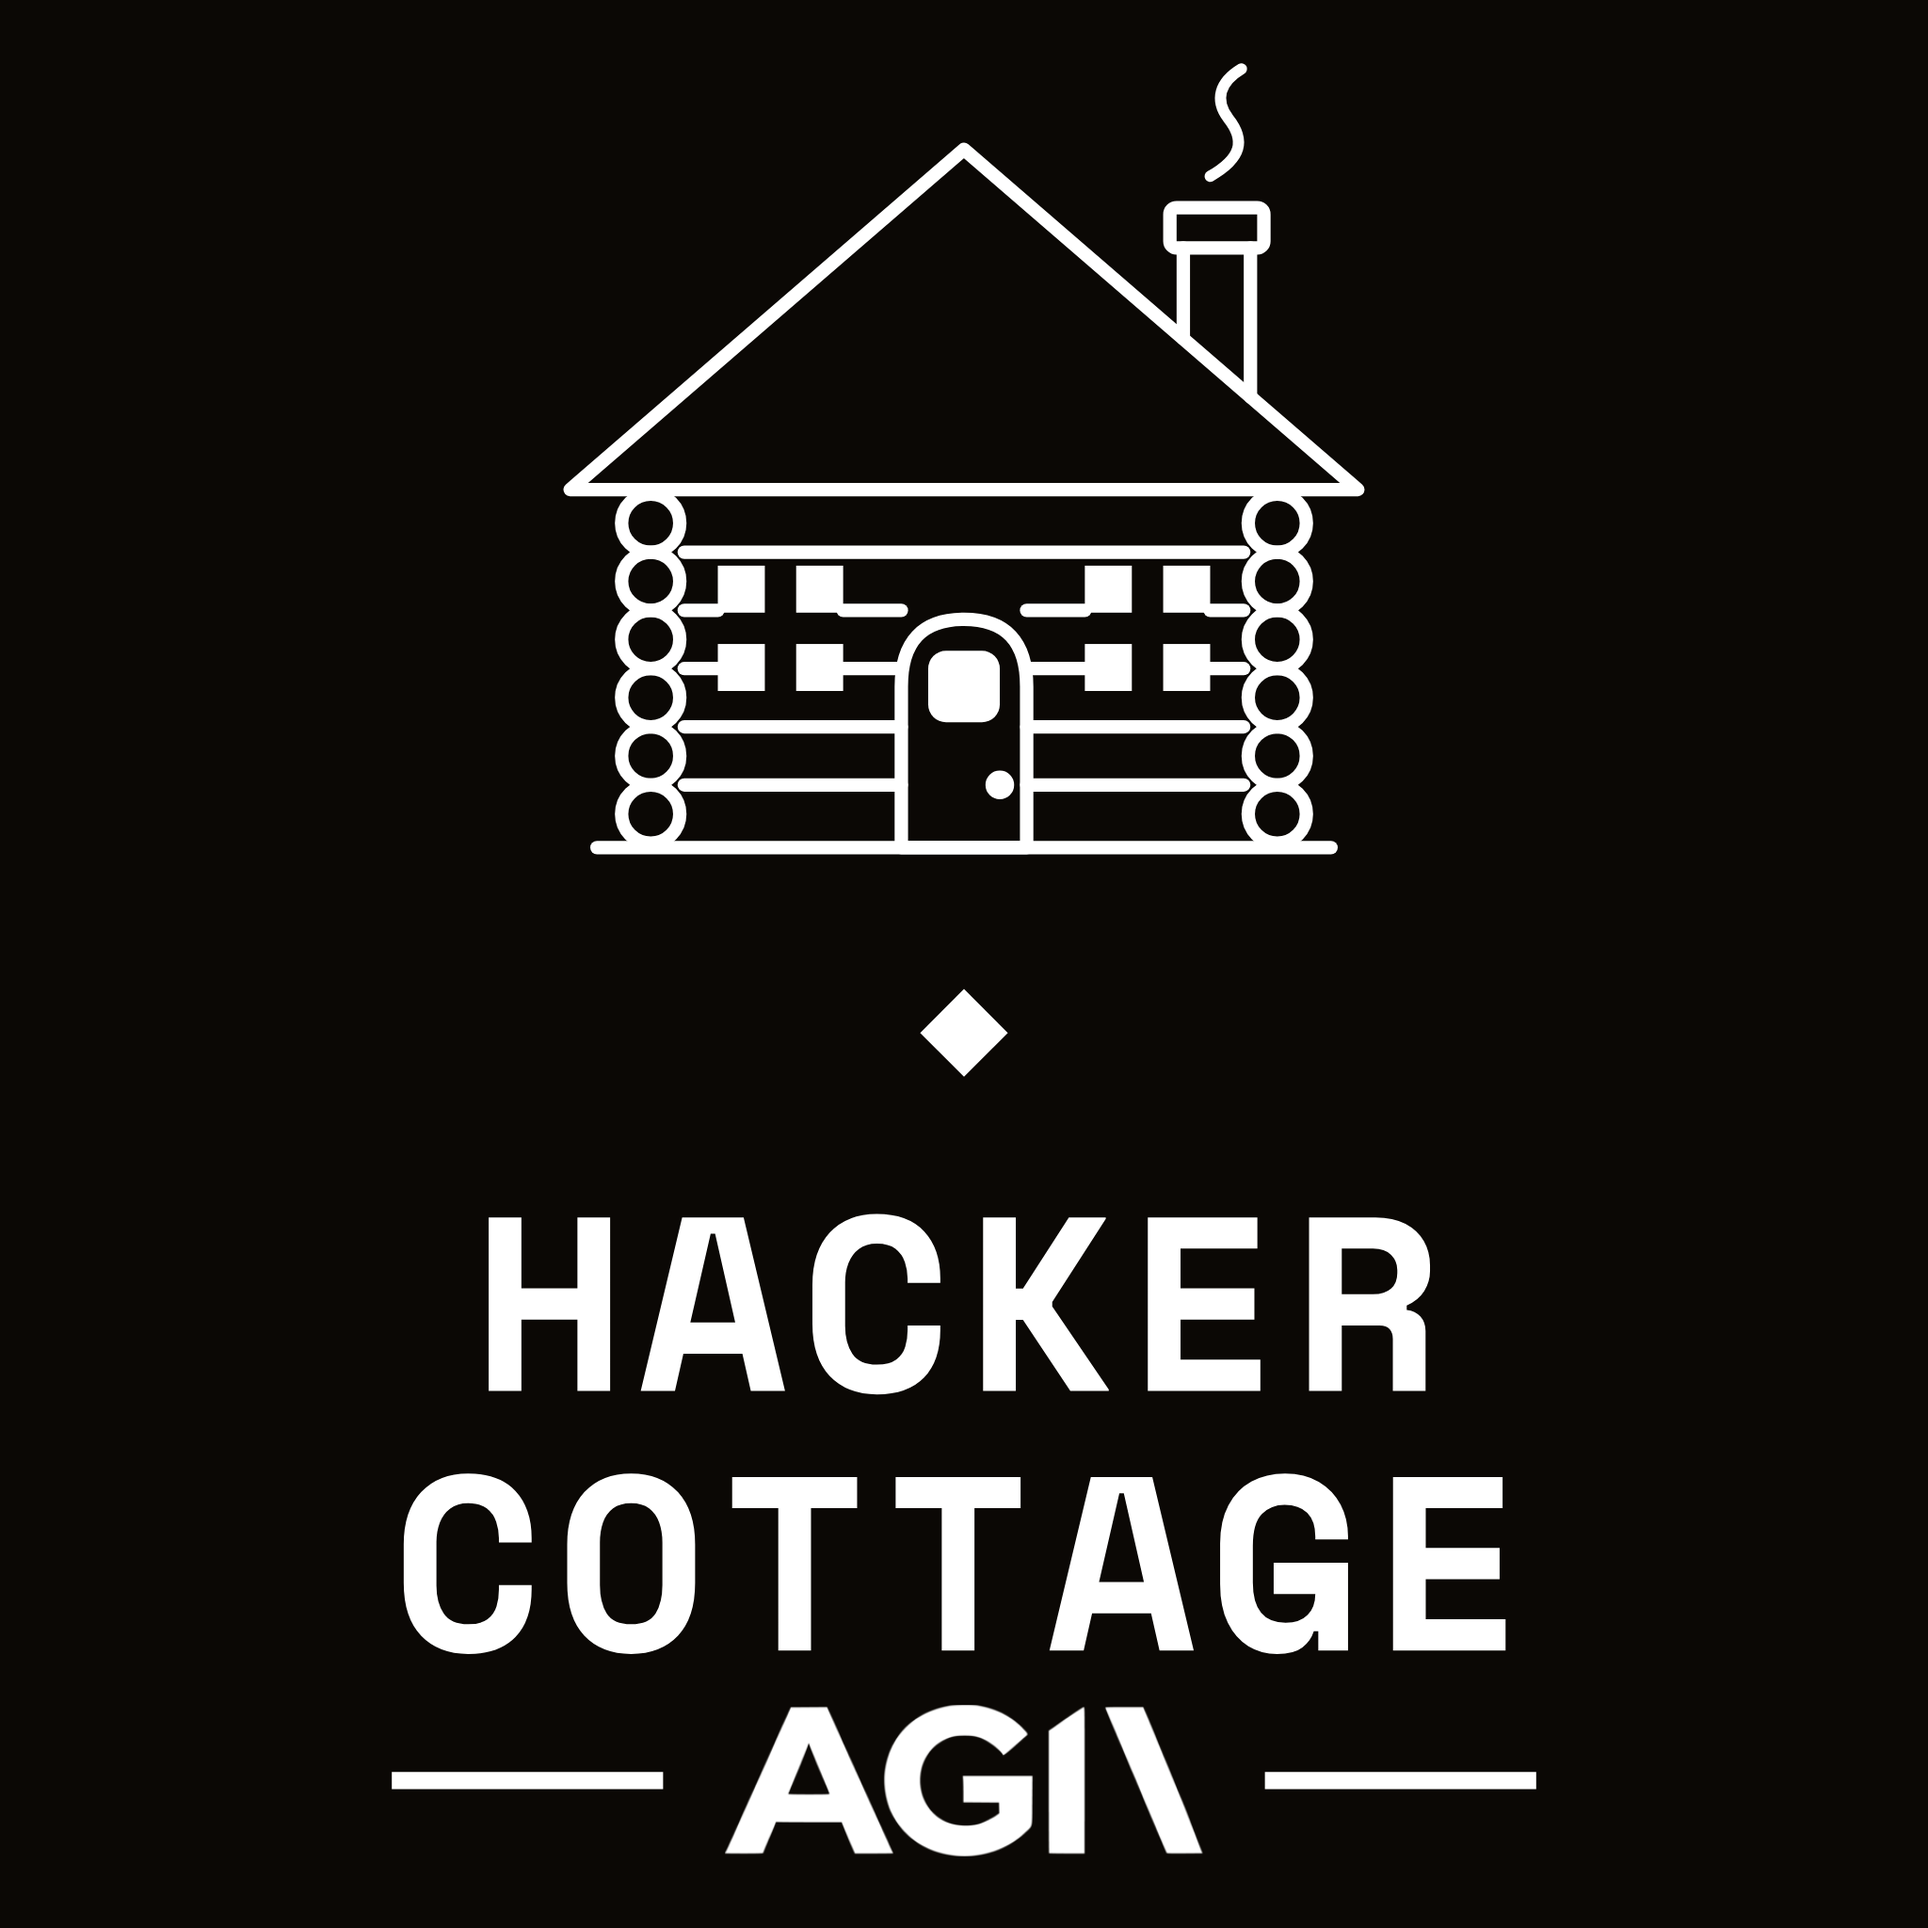
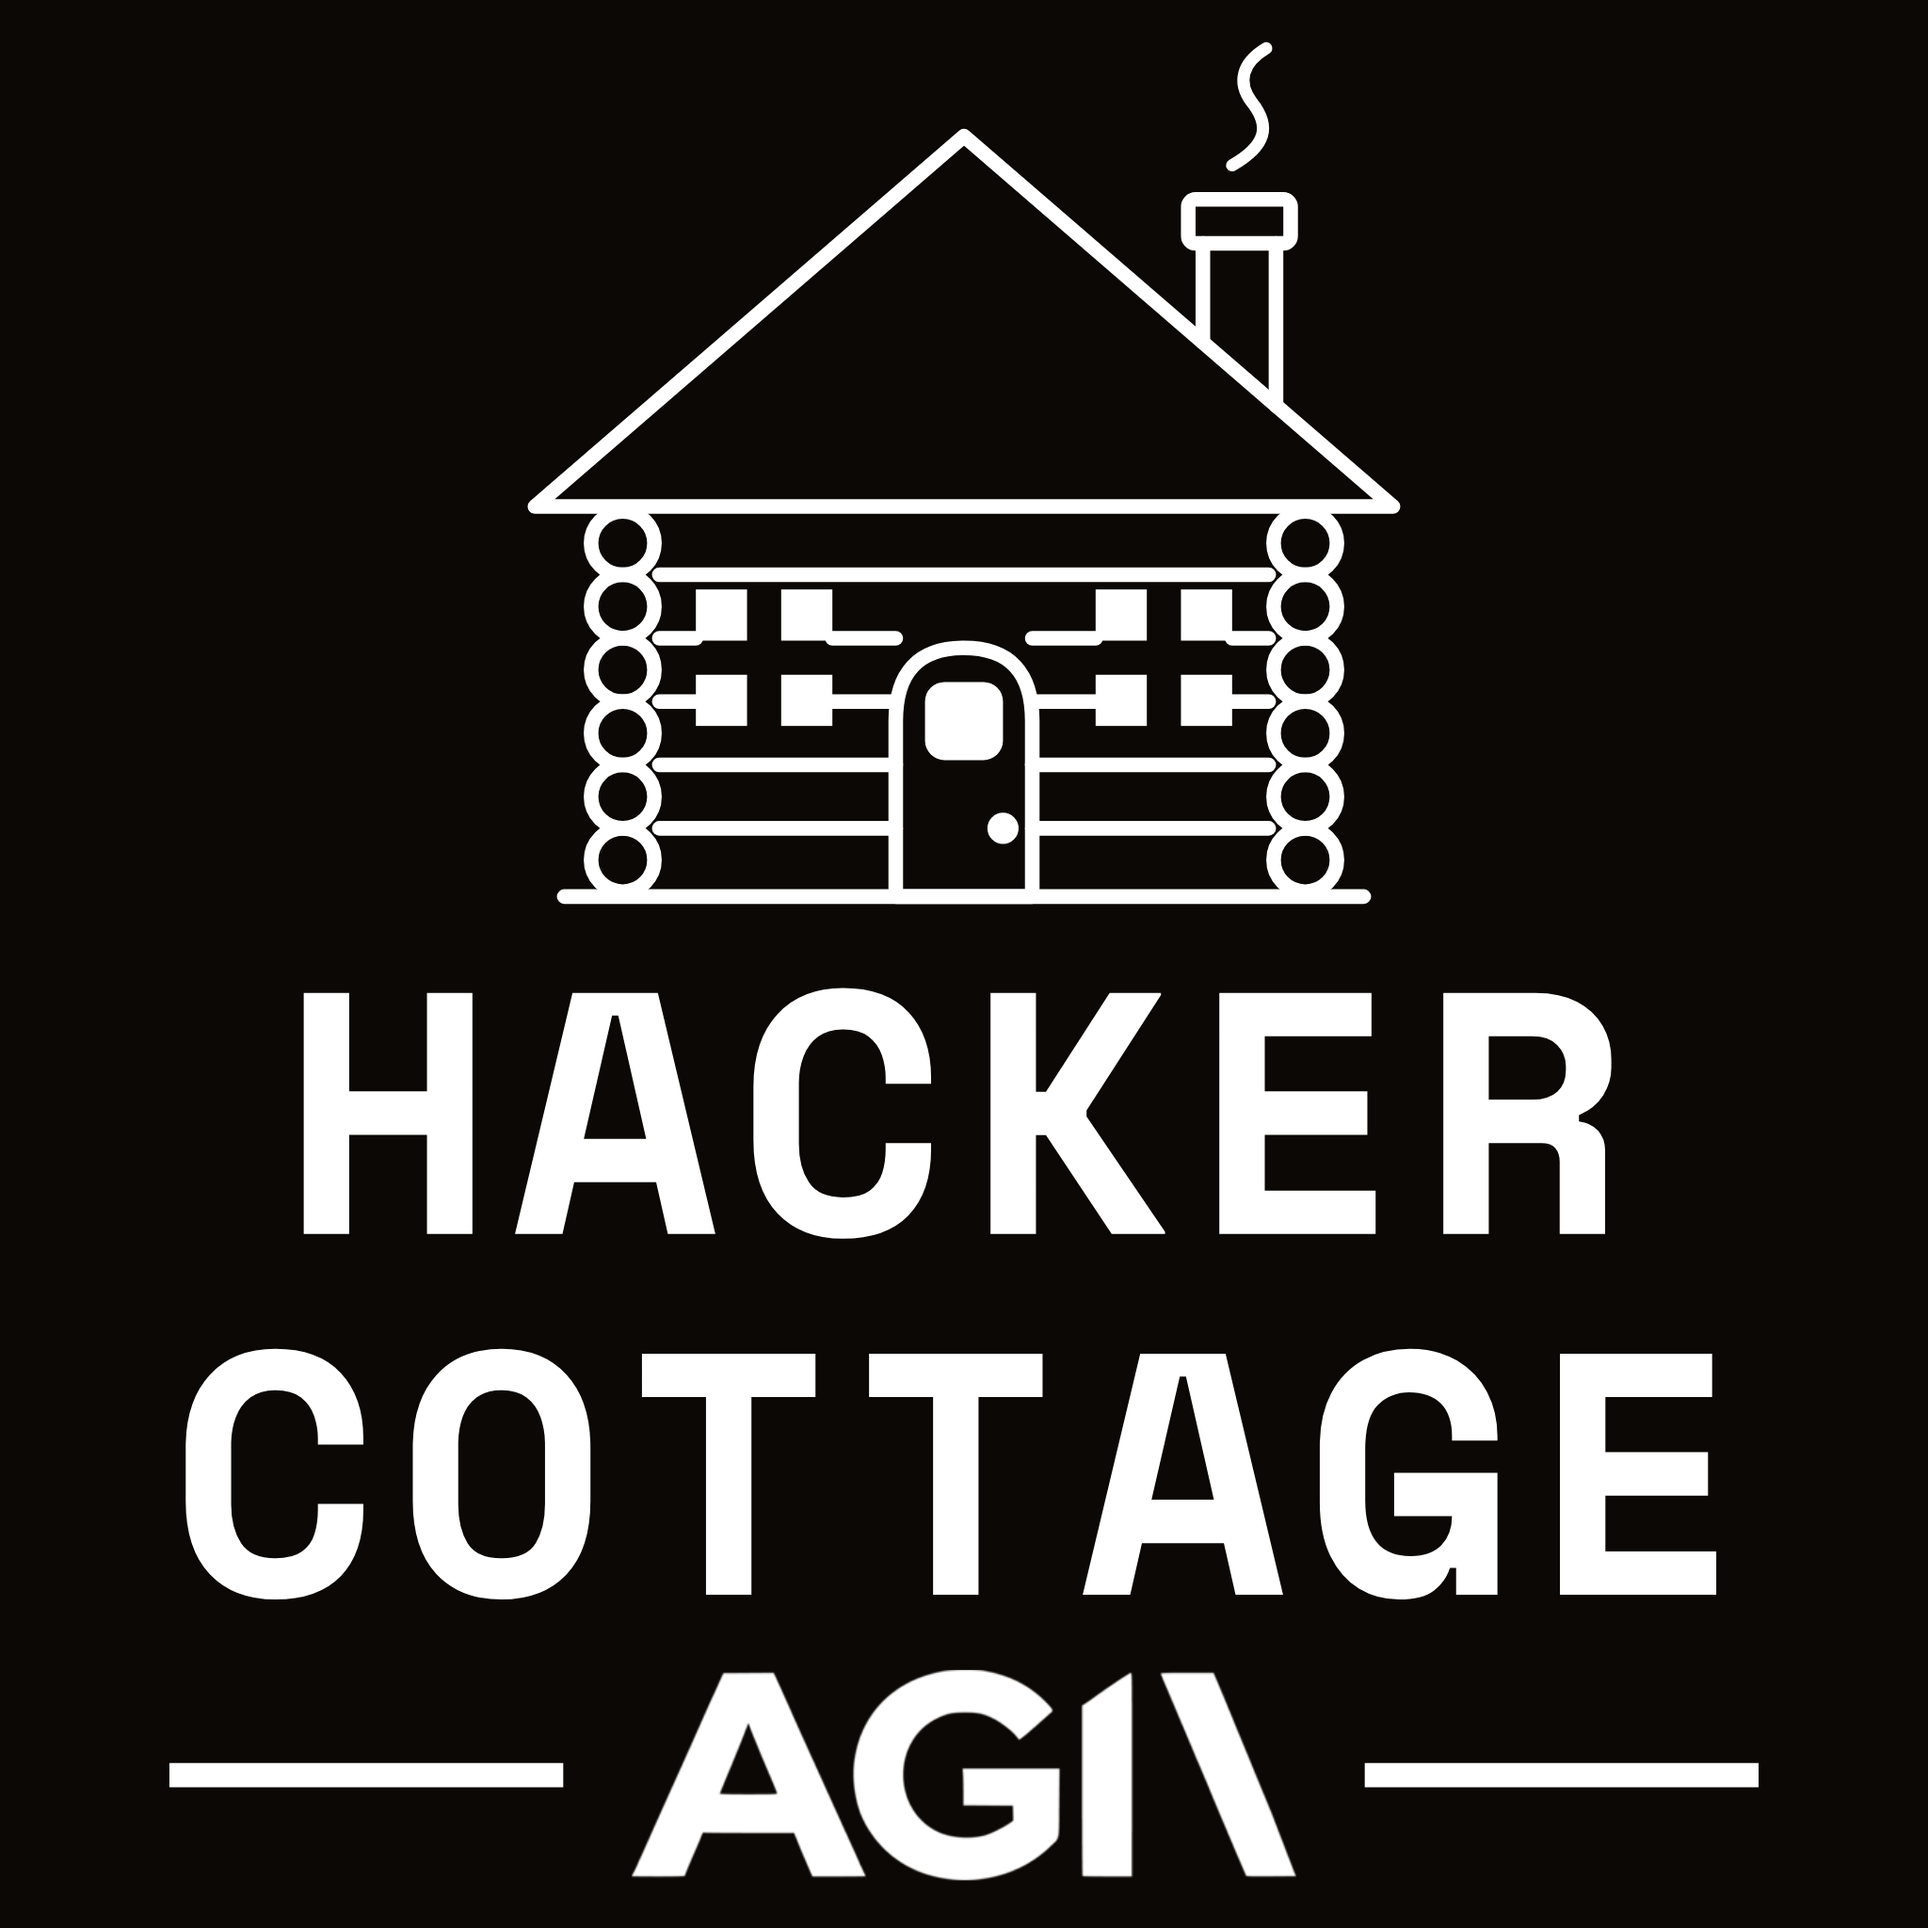
merch-hat: wider cap stack (7mm caps), diamond divider dropped, closer to square
Claude-Session: https://claude.ai/code/session_01Rg6yixi92Jf5QmLAdsJuW5

diff --git a/merch-hat/index.html b/merch-hat/index.html
@@ -305,10 +305,10 @@
 
 
     <!-- ═══ hat-front cabin: d-cabin-mono geometry, opened up for thread ═══ -->
-    <!-- The cap front is a 57 mm square, so the cabin prints about a third smaller
-         than on the tumbler. Two changes keep it stitchable at that size: the window
-         pane gaps widen 4 -> 7 units (~0.95 mm of fabric between satin blocks) and the
-         knob grows r2.1 -> 3.2 (~1.3 mm dot). Structure strokes follow currentColor;
+    <!-- The cap front is a 57 mm square and the cabin prints smaller than on the
+         tumbler. Two changes keep it stitchable at that size: the window pane gaps
+         widen 4 -> 7 units (~1 mm of fabric between satin blocks) and the knob
+         grows r2.1 -> 3.2 (~0.9 mm dot). Structure strokes follow currentColor;
          the lit panes, door light and knob follow --acc (falls back to currentColor)
          so one geometry serves both the white and the ivory+amber colorways.
          Everything else must stay in sync with d-cabin-mono. -->
@@ -340,33 +340,33 @@
     </symbol>
 
     <!-- ═══ composed: cap front stack, 2¼ × 2¼ in (280 units = 57.15 mm) ═══ -->
-    <!-- The tumbler lockup recomposed square for the front-only embroidery area:
-         cabin at 0.65, type at 36 (5.1 mm caps, above the 5 mm floor), the AGIV
-         mark bumped to 22 units (4.5 mm) so it survives as thread. The rules span
-         COTTAGE's measured edges (56.9–223.1, Chrome getBBox). The AGIV image
-         reuses the wordmark symbols' data-URIs, retargeted from their home box
-         (121, 96.8, 58w) to this row by one affine: scale 69.35/58, then place
-         at (105.3, 247.6). -->
+    <!-- The tumbler lockup recomposed square for the front-only embroidery area.
+         R2 (Damian: wider text, drop the diamond): no divider, type at 50
+         (7.1 mm caps), cabin at 0.708, the AGIV mark at 30.6 units (6.2 mm).
+         The rules span COTTAGE's advance edges (24.6–255.4; Space Mono advance
+         612/1000 em, trailing letter-spacing counts toward anchoring). The AGIV
+         image reuses the wordmark symbols' data-URIs, retargeted from their home
+         box (121, 96.8, 58w) to this row by one affine: scale 96.46/58, then
+         place at (91.77, 242.5). -->
     <symbol id="cap-stack-base" viewBox="0 0 280 280">
-      <g transform="translate(75 8.7) scale(0.65)"><use href="#d-cabin-hat" width="200" height="190"/></g>
-      <rect x="135.5" y="145.5" width="9" height="9" transform="rotate(45 140 150)" style="fill:var(--acc, currentColor)"/>
-      <text x="140" y="202" text-anchor="middle" font-family="'Space Mono',monospace" font-weight="700" font-size="36" letter-spacing="1.71" fill="currentColor">HACKER</text>
-      <text x="140" y="239.7" text-anchor="middle" font-family="'Space Mono',monospace" font-weight="700" font-size="36" letter-spacing="1.71" fill="currentColor">COTTAGE</text>
-      <line x1="56.9" y1="258.6" x2="96.3" y2="258.6" style="stroke:var(--acc, currentColor)" stroke-width="2.5"/>
-      <line x1="183.7" y1="258.6" x2="223.1" y2="258.6" style="stroke:var(--acc, currentColor)" stroke-width="2.5"/>
+      <g transform="translate(69.2 5.6) scale(0.708)"><use href="#d-cabin-hat" width="200" height="190"/></g>
+      <text x="140" y="179.2" text-anchor="middle" font-family="'Space Mono',monospace" font-weight="700" font-size="50" letter-spacing="2.38" fill="currentColor">HACKER</text>
+      <text x="140" y="231.6" text-anchor="middle" font-family="'Space Mono',monospace" font-weight="700" font-size="50" letter-spacing="2.38" fill="currentColor">COTTAGE</text>
+      <line x1="24.6" y1="257.8" x2="81.8" y2="257.8" style="stroke:var(--acc, currentColor)" stroke-width="3.5"/>
+      <line x1="198.2" y1="257.8" x2="255.4" y2="257.8" style="stroke:var(--acc, currentColor)" stroke-width="3.5"/>
     </symbol>
     <symbol id="cap-stack-white" viewBox="0 0 280 280">
       <use href="#cap-stack-base" width="280" height="280"/>
-      <g transform="translate(-39.378 131.857) scale(1.19569)"><use href="#agiv-png-white"/></g>
+      <g transform="translate(-109.47 81.51) scale(1.66313)"><use href="#agiv-png-white"/></g>
     </symbol>
     <symbol id="cap-stack-color" viewBox="0 0 280 280">
       <use href="#cap-stack-base" width="280" height="280" style="color:#E2D4BC; --acc:#E8A63A"/>
[2 lines of base64/hex data omitted]
     </symbol>
     <!-- beige proof: espresso stack with the graphite AGIV mark -->
     <symbol id="cap-stack-proof" viewBox="0 0 280 280">
       <use href="#cap-stack-base" width="280" height="280"/>
-      <g transform="translate(-39.378 131.857) scale(1.19569)"><use href="#agiv-png-graphite"/></g>
+      <g transform="translate(-109.47 81.51) scale(1.66313)"><use href="#agiv-png-graphite"/></g>
     </symbol>
 
   </defs>
@@ -447,7 +447,7 @@
         </div>
         <div class="spec">
           <div class="k">Reads best</div>
-          <div class="v">Bold shapes, 5 mm letter floor. The AGIV mark stitches at 4.5 mm: confirm with the embroiderer.</div>
+          <div class="v">Bold shapes, 5 mm letter floor. The stack's caps run 7 mm, the AGIV mark 6 mm.</div>
         </div>
       </div>
 
